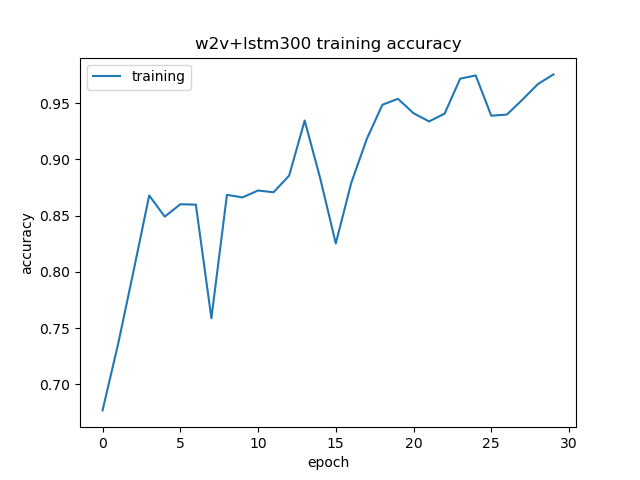
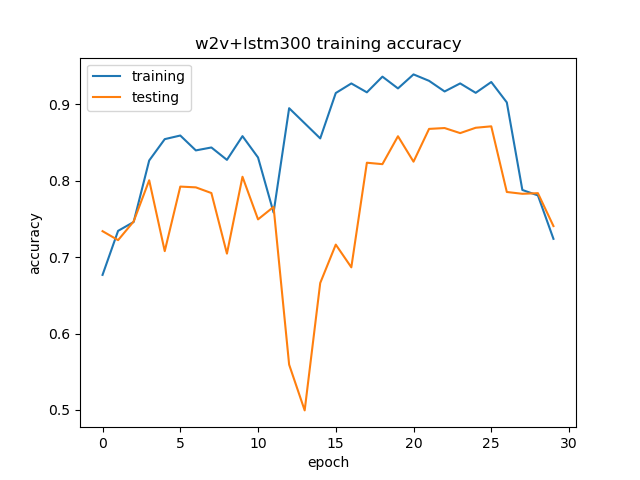
get correct plots

diff --git a/utils.py b/utils.py
@@ -321,11 +321,12 @@ def plot_train_test_acc(epochs, train_acc, test_acc, title="", filename=None):
     else:
         plt.show()
 
-def plot_acc(epochs, acc, title="", filename=None):
+def plot_acc(epochs, train_acc, test_acc, title="", filename=None):
 
     # Plot epoch loss
     plt.figure(facecolor="white")
-    plt.plot(range(epochs), acc, label='training')
+    plt.plot(range(epochs), train_acc, label='training')
+    plt.plot(range(epochs), test_acc, label='testing')
     plt.xlabel('epoch')
     plt.ylabel('accuracy')
     plt.title(title)
